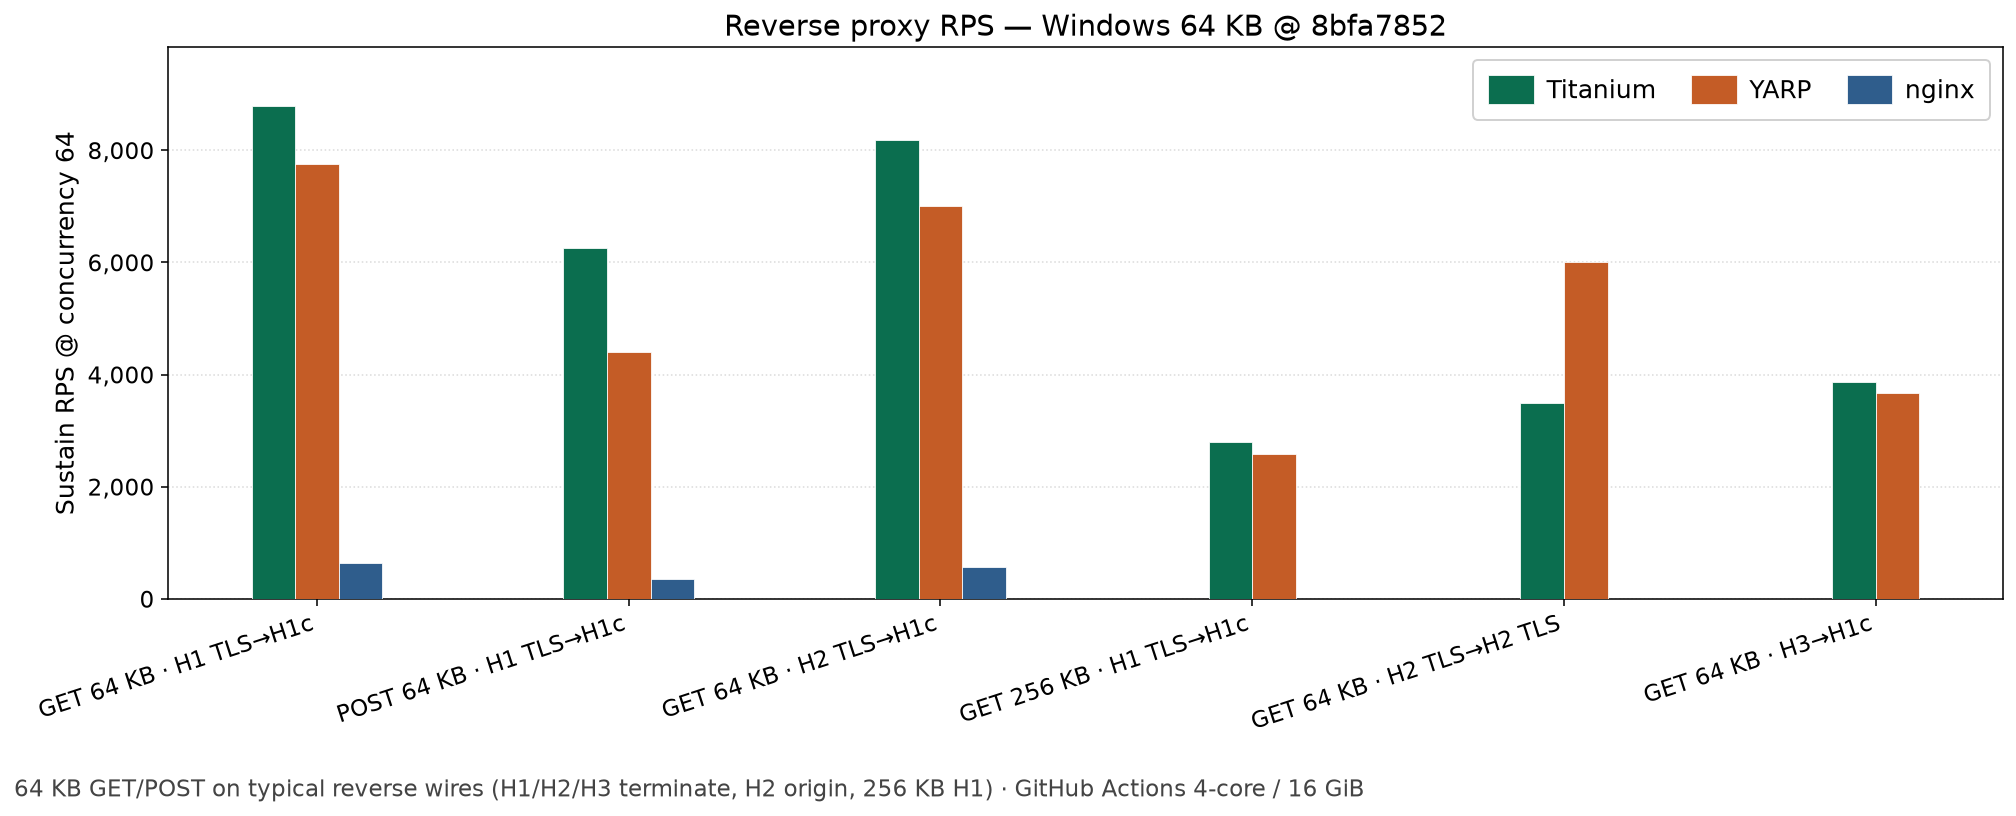
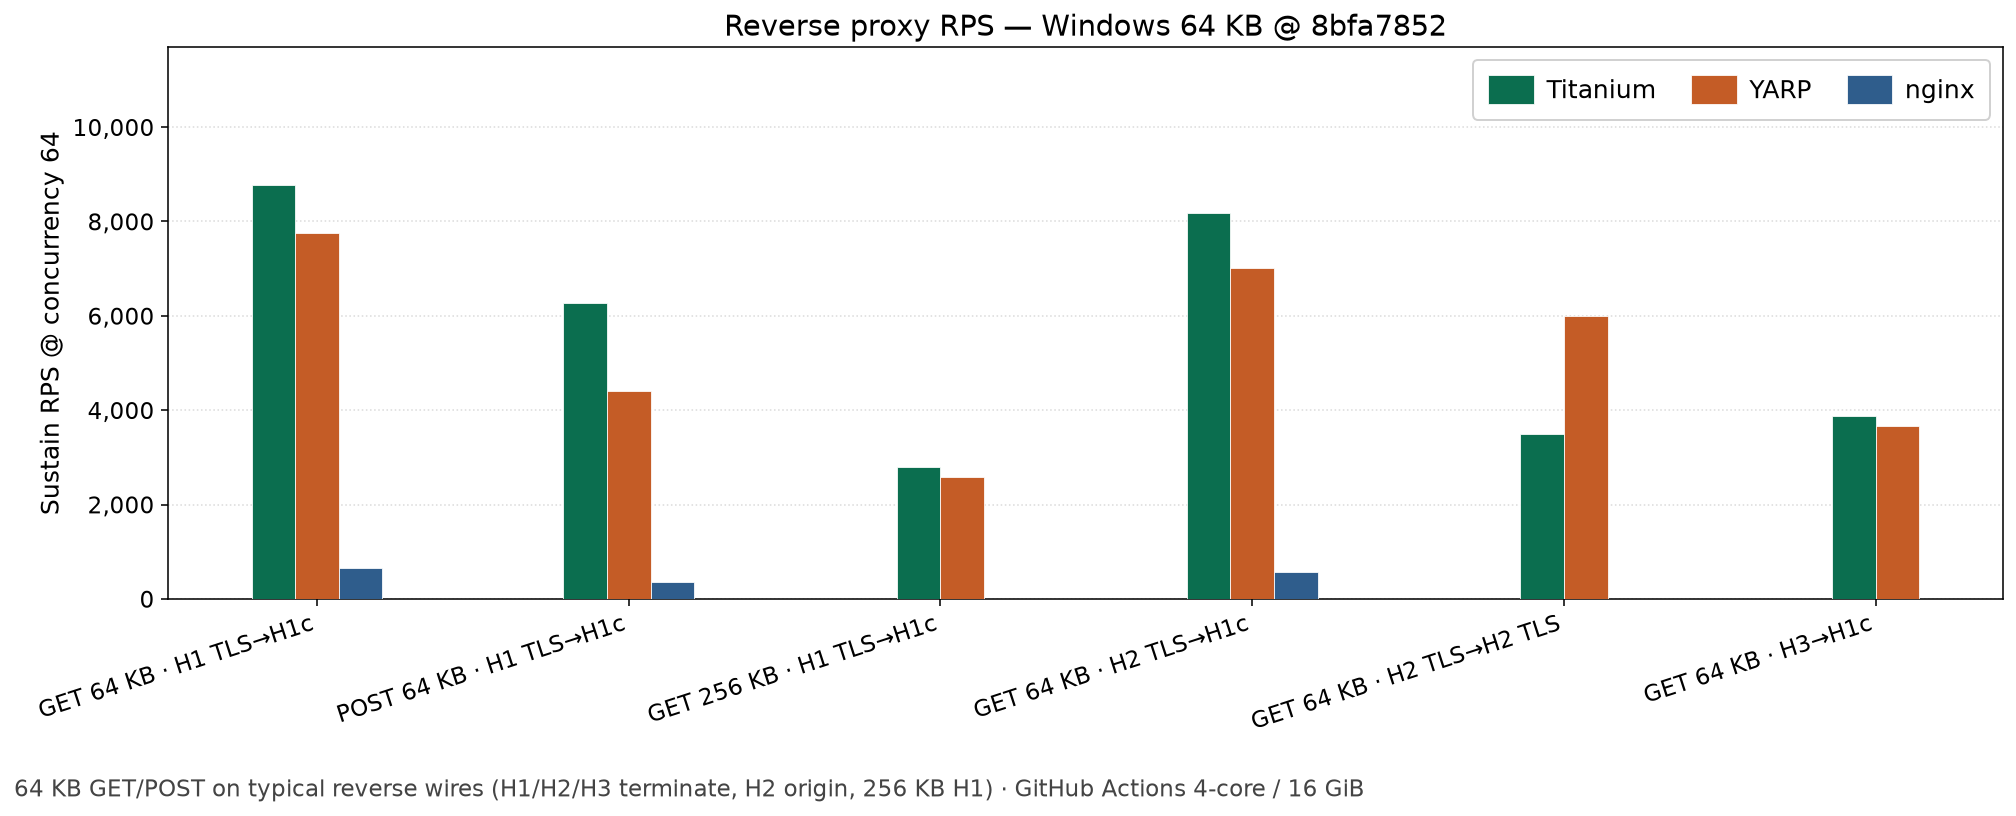
Clear practical RPS chart legends without reordering arms.
Raise y-axis headroom when tall right-side bars sit under the product legend, and restore natural H1→H2→H3 heavier cluster order.

diff --git a/tools/RpsLoadProbe/render-practical-charts.py b/tools/RpsLoadProbe/render-practical-charts.py
@@ -136,9 +136,7 @@ INDUSTRY_WORKLOADS: List[Tuple[str, Dict[str, Optional[str]]]] = [
 ]
 
 # Heavier practical chart: 64 KB GET/POST on typical reverse wires (+ 256 KB H1).
-# X-axis: H1 64 KB GET/POST, H2 terminate (left of legend), short 256 KB H1 under the
-# legend, then H2 origin and H3. The 256 KB / H2 terminate swap keeps the tall cluster
-# from covering the product legend.
+# X-axis order: H1 family → H2 → H3 (client protocol). Y-axis headroom clears the legend.
 # label, twp, yarp, nginx, haproxy, envoy (None = product-impossible).
 PRACTICAL_HEAVIER_ARMS: List[Tuple[str, str, str, Optional[str], Optional[str], Optional[str]]] = [
     (
@@ -158,20 +156,20 @@ PRACTICAL_HEAVIER_ARMS: List[Tuple[str, str, str, Optional[str], Optional[str], 
         "envoy-reverse-http1-tls-post64k",
     ),
     (
-        "GET 64 KB · H2 TLS→H1c",
-        "twp-reverse-http2-cleartext-body64k",
-        "yarp-reverse-http2-body64k",
-        "nginx-reverse-http2-body64k",
-        "haproxy-reverse-http2-body64k",
-        "envoy-reverse-http2-body64k",
-    ),
-    (
         "GET 256 KB · H1 TLS→H1c",
         "twp-reverse-http1-tls-body256k",
         "yarp-reverse-http1-tls-body256k",
         "nginx-reverse-http1-tls-body256k",
         "haproxy-reverse-http1-tls-body256k",
         "envoy-reverse-http1-tls-body256k",
+    ),
+    (
+        "GET 64 KB · H2 TLS→H1c",
+        "twp-reverse-http2-cleartext-body64k",
+        "yarp-reverse-http2-body64k",
+        "nginx-reverse-http2-body64k",
+        "haproxy-reverse-http2-body64k",
+        "envoy-reverse-http2-body64k",
     ),
     (
         "GET 64 KB · H2 TLS→H2 TLS",
@@ -240,8 +238,8 @@ WIKI_WIRE_CELLS: Dict[str, Tuple[str, str]] = {
 WIKI_HEAVIER_CELLS: Dict[Tuple[Optional[str], str, str], int] = {
     ("64 KiB", "HTTP/1 · TLS", "HTTP/1 · plain"): 0,
     (None, "HTTP/1 · TLS", "HTTP/1 · plain"): 1,  # POST table (no Body col)
-    ("64 KiB", "HTTP/2 · TLS", "HTTP/1 · plain"): 2,
-    ("256 KiB", "HTTP/1 · TLS", "HTTP/1 · plain"): 3,
+    ("256 KiB", "HTTP/1 · TLS", "HTTP/1 · plain"): 2,
+    ("64 KiB", "HTTP/2 · TLS", "HTTP/1 · plain"): 3,
     ("64 KiB", "HTTP/2 · TLS", "HTTP/2 · TLS"): 4,
     ("64 KiB", "HTTP/3 · QUIC", "HTTP/1 · plain"): 5,
 }
@@ -652,6 +650,40 @@ def plot_packed_product_bars(
     return ymax
 
 
+# One-row product legend in upper-right; keep right-side bars below it.
+# Legend box ~24% of axes height; leave ~6% gap so bar tops do not kiss the frame.
+_LEGEND_HEIGHT_FRAC = 0.24
+_LEGEND_CLEARANCE_FRAC = 0.06
+_LEGEND_RIGHT_CLUSTERS = 5
+
+
+def ylim_clearing_legend(
+    series: Dict[str, List[Optional[float]]],
+    n_clusters: int,
+    ymax: float,
+) -> float:
+    """Y max with base headroom, raised further when tall bars sit under the legend."""
+    base = max(ymax * 1.12, 1.0)
+    if n_clusters <= 0:
+        return base
+    right_start = max(0, n_clusters - min(_LEGEND_RIGHT_CLUSTERS, n_clusters))
+    right_max = 0.0
+    for product in PRODUCTS:
+        vals = series.get(product) or []
+        for i in range(right_start, min(n_clusters, len(vals))):
+            v = vals[i]
+            if v is None:
+                continue
+            h = float(v)
+            if h > right_max:
+                right_max = h
+    if right_max <= 0:
+        return base
+    usable = 1.0 - _LEGEND_HEIGHT_FRAC - _LEGEND_CLEARANCE_FRAC
+    needed = right_max / usable
+    return max(base, needed)
+
+
 def arm_sustain_c64(csv_path: Path, arm: str) -> Optional[float]:
     """Sustain RPS @ c=64. Median of SLO-passing repeats; 0 if all c=64 steps miss SLO."""
     rows = [r for r in csv.DictReader(csv_path.open(newline="")) if r.get("arm") == arm]
@@ -870,7 +902,7 @@ def render_chart(
     ax.set_xticks(x)
     ax.set_xticklabels(labels, rotation=18, ha="right", fontsize=12)
     ax.tick_params(axis="y", labelsize=12)
-    ax.set_ylim(0, ymax * 1.12)
+    ax.set_ylim(0, ylim_clearing_legend(series, len(labels), ymax))
     ax.yaxis.set_major_formatter(plt.FuncFormatter(lambda v, _: f"{int(v):,}"))
     ax.grid(axis="y", linestyle=":", alpha=0.45, zorder=0)
     ax.legend(
